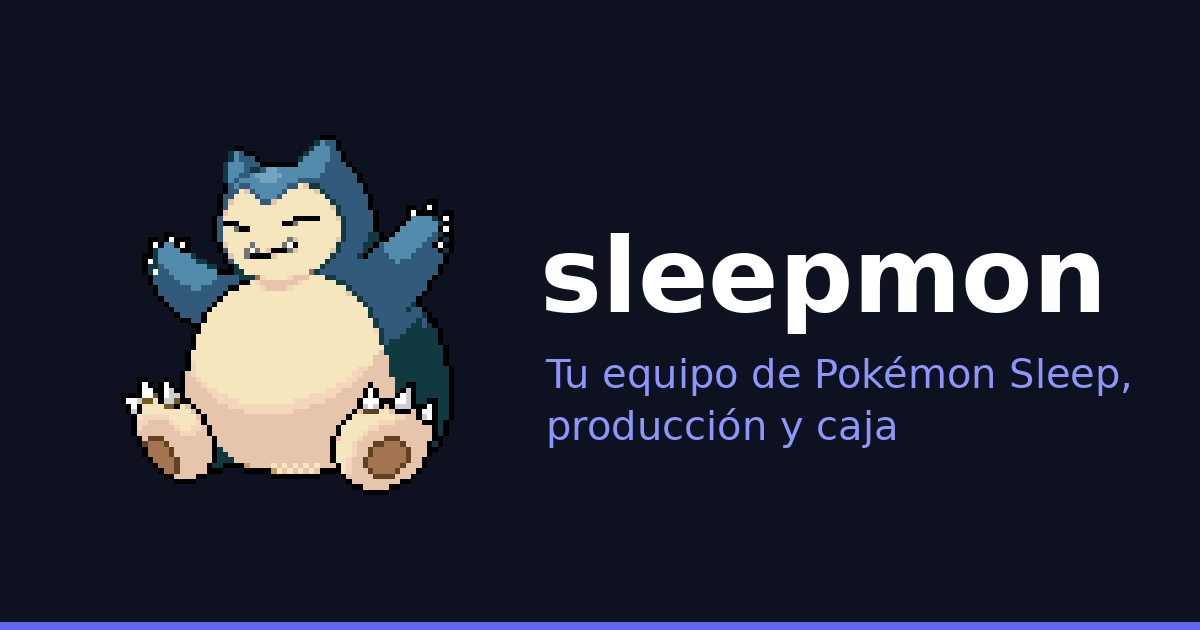
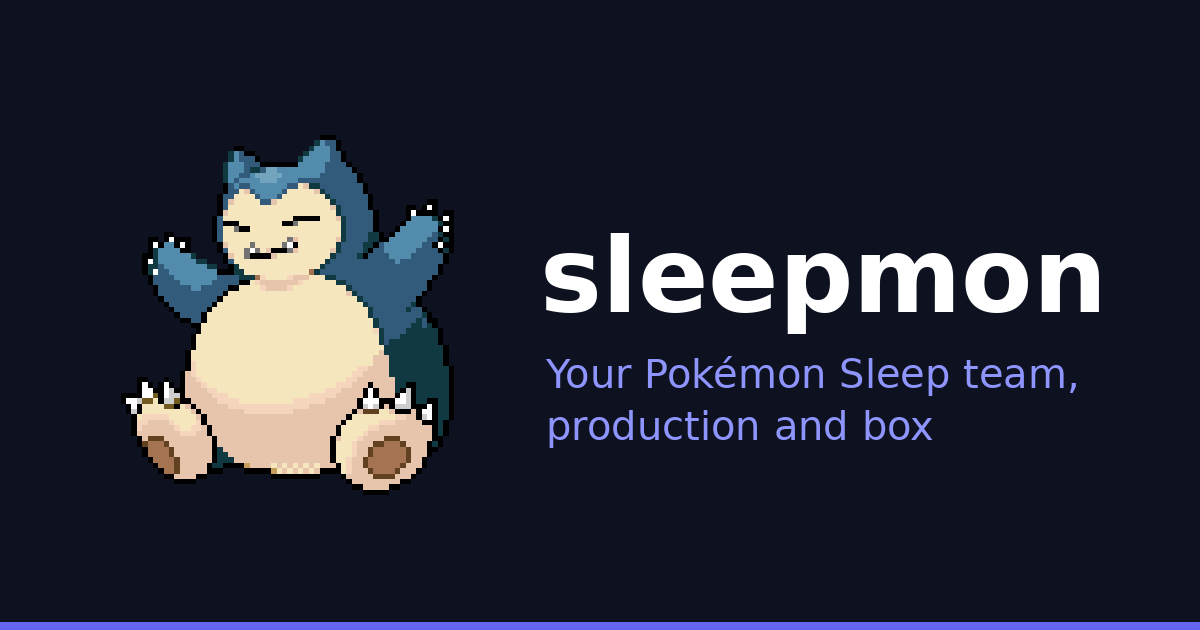
chore(frontend): share card in English
The link preview (Open Graph image, title and description) reaches people of any
language, so it reads in English; the page itself still follows the language toggle.

Claude-Session: https://claude.ai/code/session_015ufJUK65UMKHVEkbAGK6wR

Changed region(s): [[0.4625, 0.573, 0.9558, 0.7238]]

diff --git a/frontend/index.html b/frontend/index.html
@@ -11,8 +11,8 @@
     <meta property="og:type" content="website" />
     <meta property="og:site_name" content="sleepmon" />
     <meta property="og:url" content="https://sleepmon.app/" />
-    <meta property="og:title" content="sleepmon — Mi equipo de Pokémon Sleep" />
-    <meta property="og:description" content="Armá y analizá tu equipo de Pokémon Sleep: compará Pokémon, estimá la producción de bayas, ingredientes y habilidades, y guardá tu caja." />
+    <meta property="og:title" content="sleepmon — Your Pokémon Sleep team" />
+    <meta property="og:description" content="Build and analyze your Pokémon Sleep team: compare Pokémon, estimate berry, ingredient and skill production, and keep your box." />
     <meta property="og:image" content="https://sleepmon.app/og-image.png" />
     <meta property="og:image:width" content="1200" />
     <meta property="og:image:height" content="630" />
